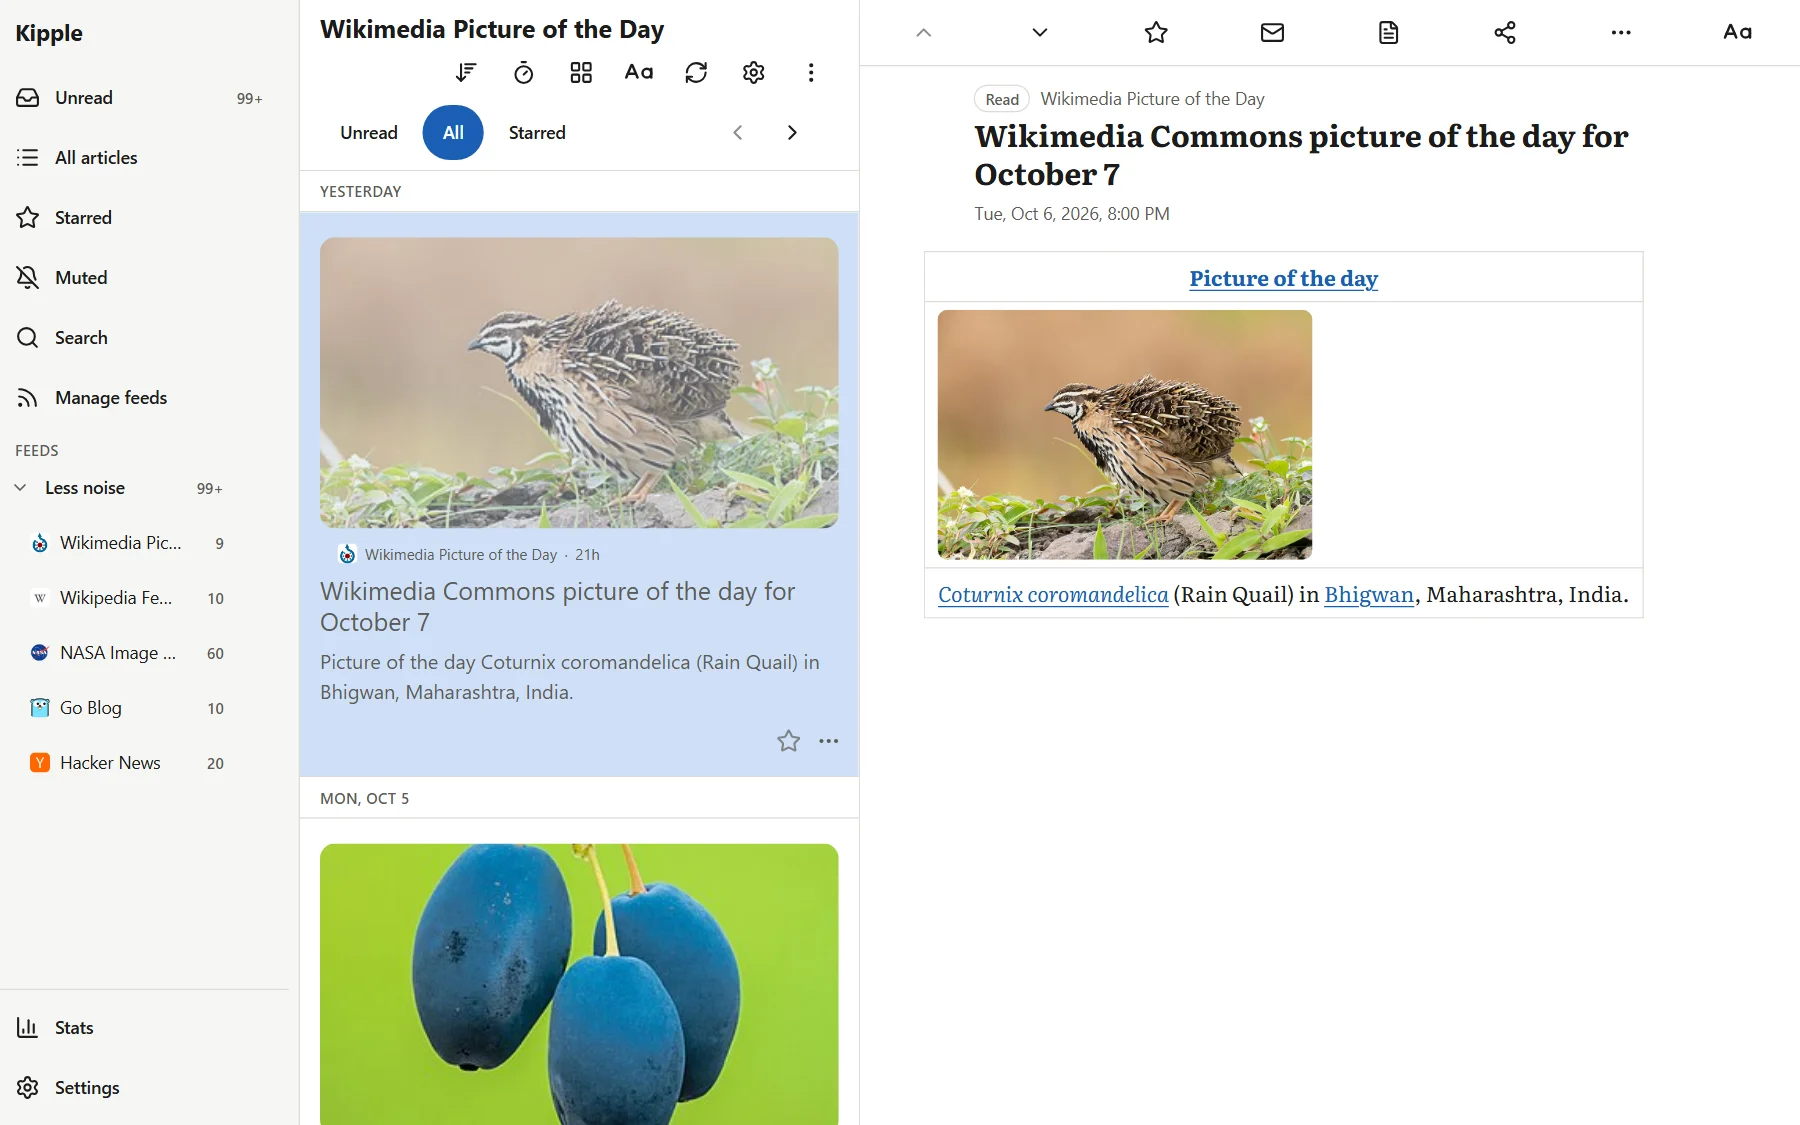
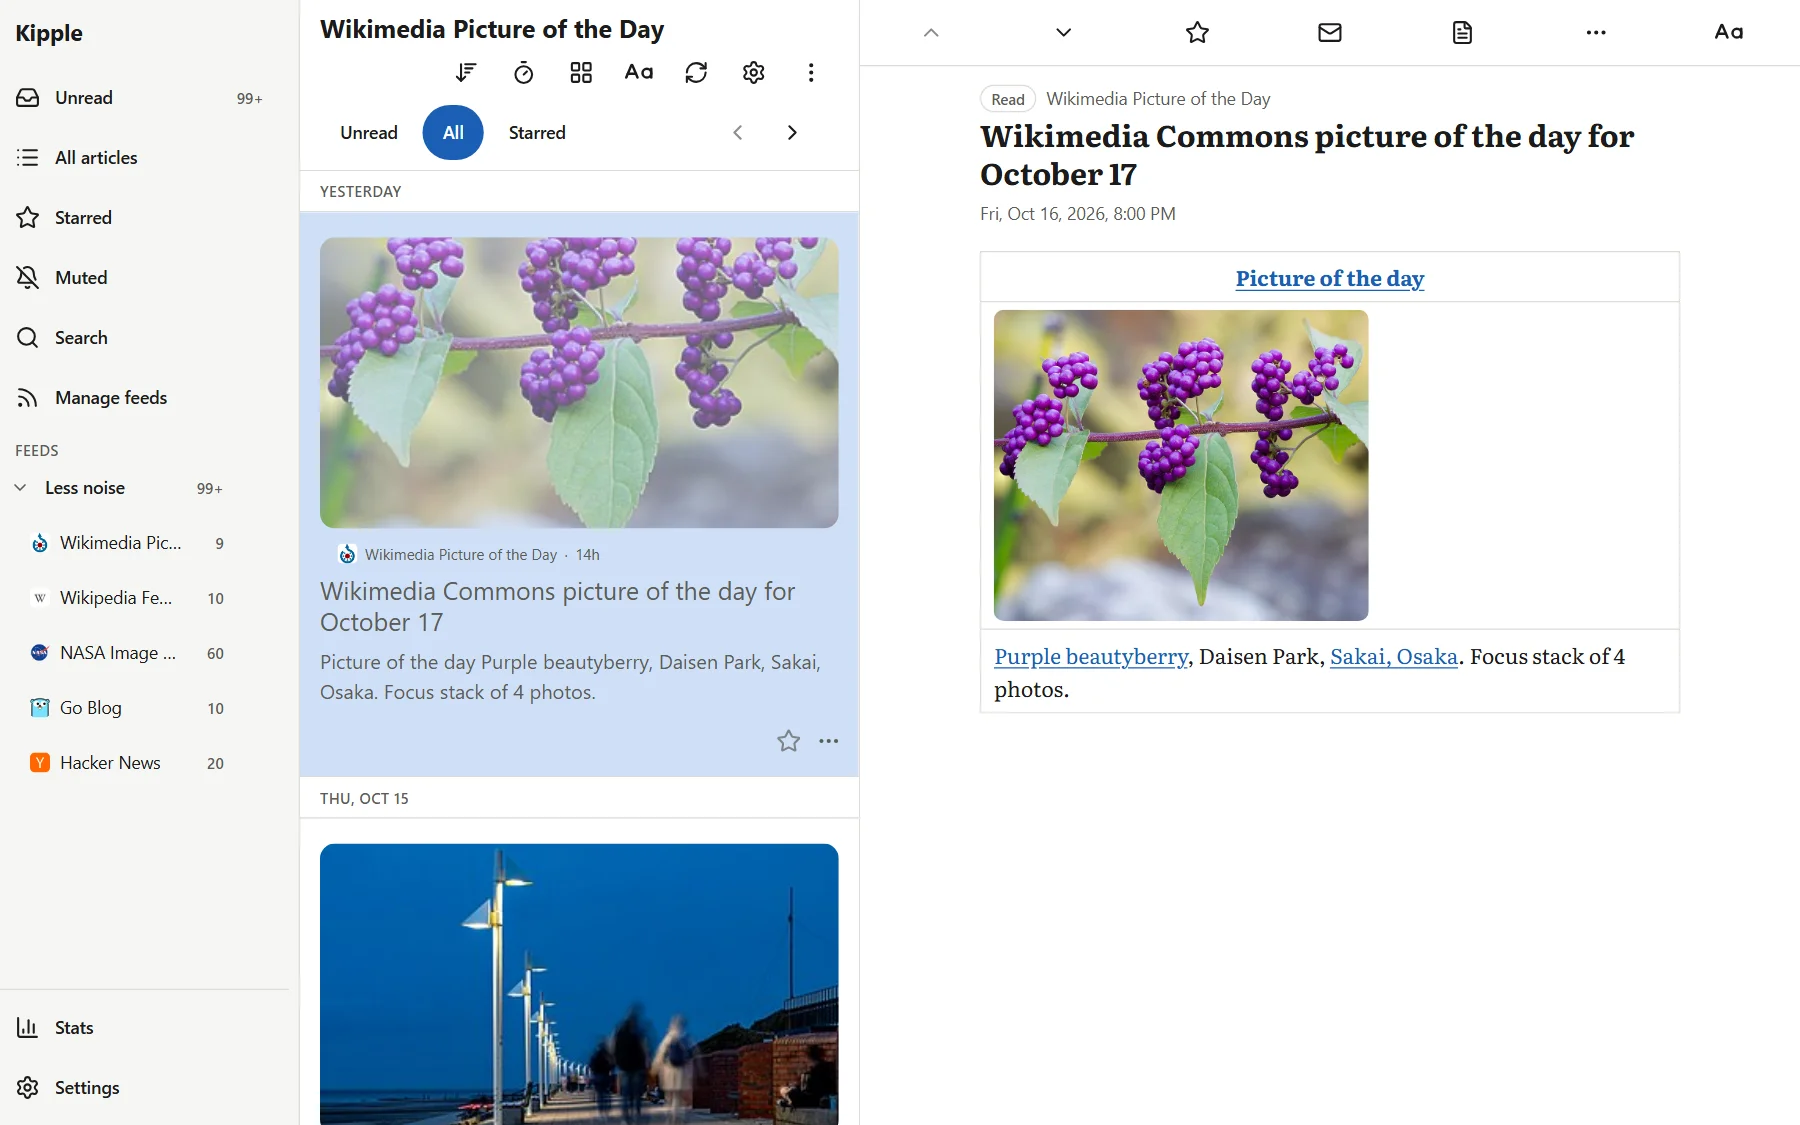
Regenerate screenshots and og.png for Kipple v1.0.0-rc.1
Desktop and phone shots, Paper and Midnight, from a seeded instance with
scripts/maintainers/site-shots.mjs; the three setup wizard shots (now step N of 7)
from a fresh-seed instance. Alt text and image height follow the new shots, and
the capture note in DESIGN-SYSTEM.md names v1.0.0-rc.1.

diff --git a/index.html b/index.html
@@ -81,7 +81,7 @@
       </div>
       <p class="shots-note">The web app in Paper and Midnight, on desktop and on a phone. The sample feeds are public ones, including the Wikimedia Commons picture of the day. Photo credits and licenses are on Commons.</p>
       <figure class="shot wide">
-        <img src="screenshots/desktop-paper.webp" width="1800" height="1125" alt="Kipple on a desktop in the Paper color scheme. A feed list on the left with a Less noise folder holding five feeds, article cards in the middle with a large photo of a rain quail, and the article open on the right.">
+        <img src="screenshots/desktop-paper.webp" width="1800" height="1125" alt="Kipple on a desktop in the Paper color scheme. A feed list on the left with a Less noise folder holding five feeds, article cards in the middle with a large photo of purple beautyberries, and the article open on the right.">
       </figure>
       <div class="shot-row">
         <figure class="shot">
@@ -189,13 +189,13 @@ volumes:
       </div>
       <div class="shot-row steps">
         <figure class="shot">
-          <img src="screenshots/wizard-account.webp" width="864" height="1289" alt="Setup step 1 of 6, Create your account: a user name field and two choices, With a password, selected, and No password at all, with a note that it is only for a Kipple reachable from this computer, your local network or Tailscale.">
+          <img src="screenshots/wizard-account.webp" width="864" height="1424" alt="Setup step 1 of 7, Create your account: a user name field and two choices, With a password, selected, and No password at all, with a note that it is only for a Kipple reachable from this computer, your local network or Tailscale.">
         </figure>
         <figure class="shot">
-          <img src="screenshots/wizard-timezone.webp" width="864" height="1113" alt="Setup step 2 of 6, Choose your time zone: the zone suggested from the browser, a search box and a list of zones, with Skip and Continue buttons.">
+          <img src="screenshots/wizard-timezone.webp" width="864" height="1113" alt="Setup step 2 of 7, Choose your time zone: the zone suggested from the browser, a search box and a list of zones, with Skip and Continue buttons.">
         </figure>
         <figure class="shot">
-          <img src="screenshots/wizard-theme.webp" width="864" height="1344" alt="Setup step 3 of 6, Look and feel: day and night theme pickers showing Paper and Midnight previews, and a reading font picker.">
+          <img src="screenshots/wizard-theme.webp" width="864" height="1344" alt="Setup step 3 of 7, Look and feel: day and night theme pickers showing Paper and Midnight previews, and a reading font picker.">
         </figure>
       </div>
     </div>

diff --git a/design-system/DESIGN-SYSTEM.md b/design-system/DESIGN-SYSTEM.md
@@ -260,14 +260,13 @@ for reduced motion. No other animation.
 - Links: https://github.com/WPTK/Kipple (source, changelog at `blob/main/CHANGELOG.md`, license at
   `blob/main/LICENSE`, deploy notes at `blob/main/docs/deploy.md`), https://github.com/WPTK/kipple-history,
   https://wptk.org.
-- `screenshots/`: four WebP files listed in the Screenshots component, plus three wizard shots (`wizard-account.webp` 864 x 1289, `wizard-timezone.webp` 864 x 1113, `wizard-theme.webp` 864 x 1344) shown in the First run section as `.shot-row.steps` (three equal columns, one column at or below 832px). The wizard shots were taken on 2026-10-03 at app commit `28768e2` (`v0.7.0-beta.1`) from a throwaway instance started with `KIPPLE_SEED_SET=fresh npm run seed`, in a 1000px wide viewport at 1.5x with the Paper scheme, each cropped to the 576px wide wizard column and as tall as its content (steps 1 to 3 of 6). Captured from a throwaway instance of the app
+- `screenshots/`: four WebP files listed in the Screenshots component, plus three wizard shots (`wizard-account.webp` 864 x 1424, `wizard-timezone.webp` 864 x 1113, `wizard-theme.webp` 864 x 1344) shown in the First run section as `.shot-row.steps` (three equal columns, one column at or below 832px). The wizard shots were taken on 2026-10-17 at app commit `11cb2402` (`v1.0.0-rc.1`) from a throwaway instance started with `KIPPLE_SEED_SET=fresh npm run seed`, in a 1000px wide viewport at 1.5x with the Paper scheme, each cropped to the 576px wide wizard column and as tall as its content (steps 1 to 3 of 7; step 1 is filled in with the user name "reader" and a sample password, step 2 shows the browser zone America/New_York). Captured from a throwaway instance of the app
   by the app repo's `web/scripts/site-shots.mjs` (run at every release, `docs/RELEASING.md` step 12), after
   `KIPPLE_SEED_SET=site npm run seed`, which seeds Wikimedia Picture of the Day, Wikipedia Featured Article, NASA
-  Image of the Day, Go Blog and Hacker News in a folder named "Less noise". Last captured 2026-10-07 at app commit
-  `v0.8.0-beta.5` (`2b7dcc6`), straight from the seed with no extra folders, so the sidebar shows the single "Less noise" folder. Desktop: a 1440 x 900 viewport at 1.25x, giving 1800 x 1125 directly. Phone: 390 x 844
+  Image of the Day, Go Blog and Hacker News in a folder named "Less noise". Last captured 2026-10-17 at app commit `v1.0.0-rc.1` (`11cb2402`), straight from the seed with no extra folders, so the sidebar shows the single "Less noise" folder. Desktop: a 1440 x 900 viewport at 1.25x, giving 1800 x 1125 directly. Phone: 390 x 844
   at 1.5x, giving 585 x 1266. The list uses the device's default layout (Editorial). Light is the app's Paper scheme.
   Dark is the app following a dark system setting, which gives Midnight. Article shown: the Wikimedia Commons picture
-  of the day for October 7 (a Rain Quail, Coturnix coromandelica). The WebP files are encoded by the browser
+  of the day for October 17 (a purple beautyberry, Daisen Park, Sakai, Osaka). The WebP files are encoded by the browser
   at quality 0.85. `og.png` is re-rendered by the same script from `design-system/social-preview.html`.
 - The hero sample panel (unread count 420) is HTML and CSS, not a screenshot.
 - Favicon: `favicon.svg`, `favicon.ico` (16, 32 and 48 px), `apple-touch-icon.png` (180 x 180).
